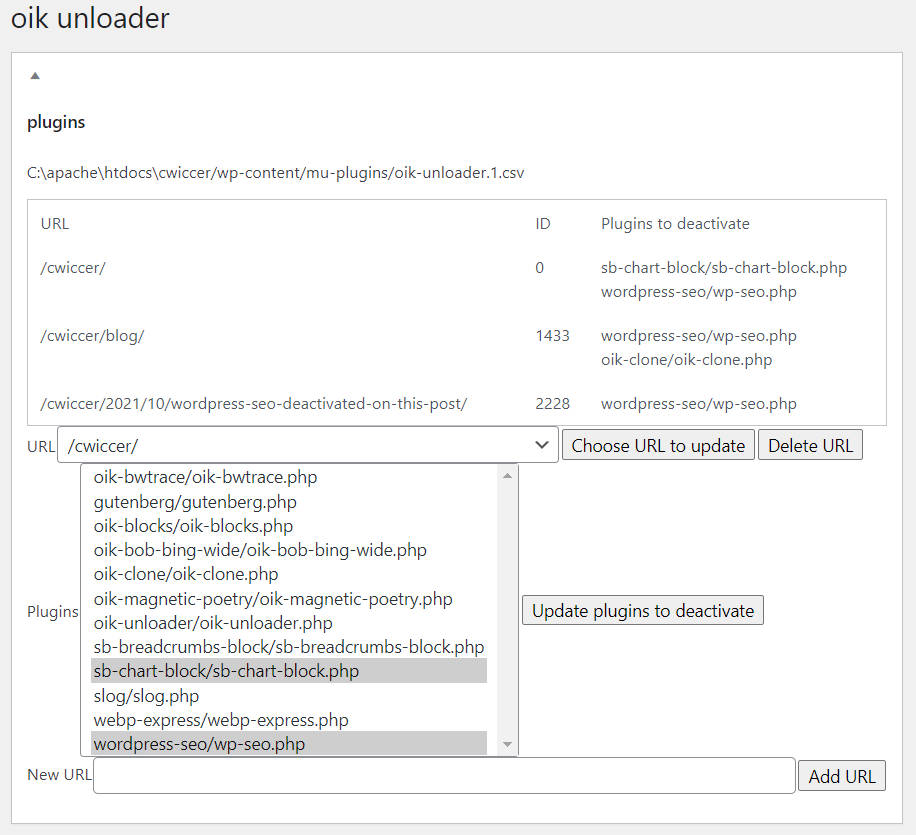
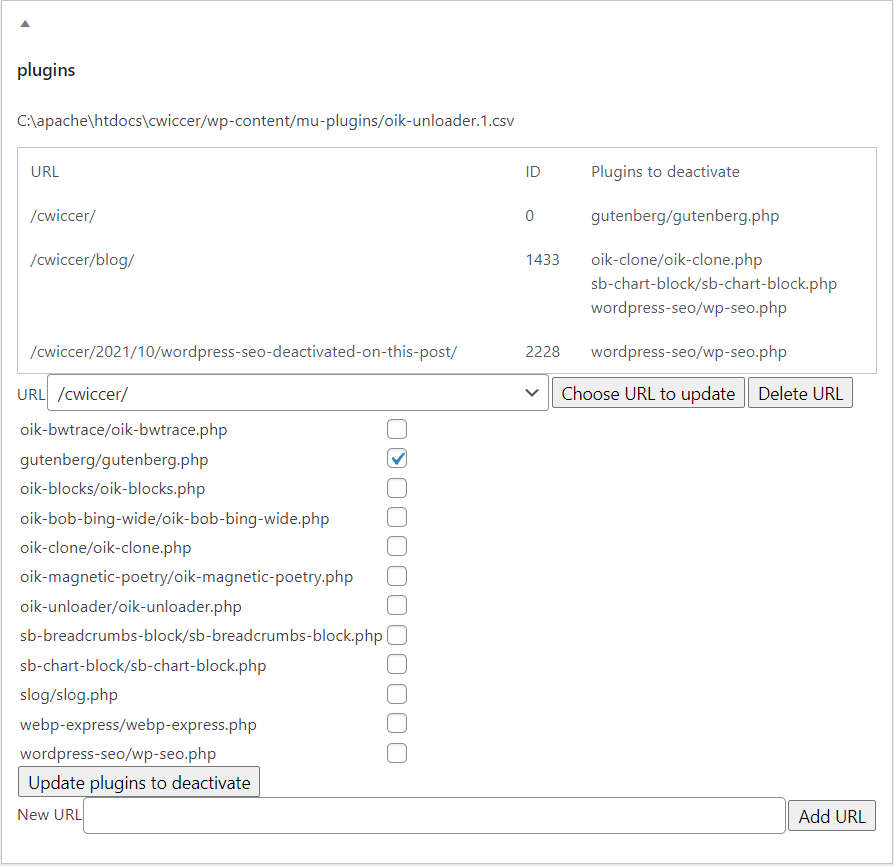
oik-unloader v0.0.1 2021/10/26

diff --git a/oik-unloader.php b/oik-unloader.php
@@ -3,7 +3,7 @@
 Plugin Name: oik-unloader
 Plugin URI: https://www.oik-plugins.com/oik-plugins/oik-unloader
 Description: WordPress plugin to dynamically unload unnecessary plugins on demand
-Version: 0.0.0
+Version: 0.0.1
 Author: bobbingwide
 Author URI: https://bobbingwide.com/about-bobbing-wide/
 Text Domain: oik-unloader

diff --git a/README.md b/README.md
@@ -5,7 +5,7 @@
 * Tags: oik, plugin, unloader
 * Requires at least: 5.8.1
 * Tested up to: 5.8.1
-* Stable tag: 0.0.0
+* Stable tag: 0.0.1
 
 WordPress Must Use plugin to unload unnecessary plugins on demand.
 
@@ -13,15 +13,17 @@ WordPress Must Use plugin to unload unnecessary plugins on demand.
 Use the oik-unloader plugin to unload unnecessary plugins on demand.
 
 Many websites have lots of plugins activated because the functionality is sometimes needed.
-But quite a few of these plugins think they're needed all the time,
-they do a lot of processing for each incoming request,
-only to find that there's no need for the work that they've done.
+But quite a few of these plugins:
+- think they're needed all the time,
+- do a lot of processing for each incoming request,
+- only to find that there was no need for the work that they'd done.
 
-These slow the server side processing of the site. This can increase time to first byte.
+These slow the server side processing of the site.
+This can increase the server response time; time to first byte.
 The plugins can also slow the front end of the site; delivering scripts, CSS and even HTML and images that are not actually needed.
 
 Dynamically unloading a subset of plugins for certain requests could improve the overall performance of the site.
-
+This could help improve the Core Web Vitals which may lead to better rankings in Search Engine Results Pages ( SERPs ).
 
 ## Installation 
 1. Upload the contents of the oik-unloader plugin to the `/wp-content/plugins/oik-unloader' directory
@@ -33,20 +35,40 @@ Dynamically unloading a subset of plugins for certain requests could improve the
 
 * Note: In a WordPress Multi Site installation
 - There will only be one version of the Must Use plugin ( oik-unloader-mu.php )
-- There will be multiple index and component dependencies files; one of each per site.
+- There will be multiple unloader files ; one per site.
 
 
 ## Frequently Asked Questions 
 
 # What is this plugin for? 
-It helps to reduce the number of activated plugins in your website.
-It dynamically removes from the plugins list the unwanted plugins.
+Performance tweaking.
+
+- It helps to reduce the number of activated plugins for a particular request.
+- It dynamically removes the unwanted plugins from the list of plugins to be activated.
+- The plugin temporarily deactivates plugins for the specific URL.
+- It doesn't unload them, it prevents the plugins from being loaded.
 
 # Which plugins can I deactivate? 
 
 For certain URLs you should be able to deactivate a whole host of plugins that aren't actually required for the front end.
 You may find that some plugins are extremely well behaved and it won't make the slightest difference if they're left activated.
 
+# Why deactivate rather than activate? 
+
+By targetting specific URLs you can deactivate plugins that you're certain are not needed.
+For example, you may have a number of posts that display charts.
+For these you will need to ensure that the chart plugin is activated.
+For any other post, the plugin that displays the charts doesn't need to be activated.
+If it improves the performance, then you may consider deactivating the chart plugin for these other posts.
+The tweaking is intended to get the best performance for specific URLs.
+Concentrate on the most visited pages first and deactivate only those plugins that you know you can safely deactivate.
+
+
+It's primarily the front end experience that we want to improve.
+
+When using the WordPress admin interface you'll expect each of the plugins to operate correctly.
+Therefore you would expect the plugins to be activated.
+The REST API and AJAX requests should also produce the expected results.
 
 ## Screenshots 
 1. oik-loader admin page - plugins
@@ -54,14 +76,22 @@ You may find that some plugins are extremely well behaved and it won't make the 
 3. oik-loader admin page - oik-loader-mu activated
 
 ## Upgrade Notice 
+# 0.0.1 
+Upgrade plugin selection using checkboxes.
+
 # 0.0.0 
 Prototype version developed as part of a performance improvement project.
 
 ## Changelog 
+# 0.0.1 
+* Changed: Plugin selection list implemented using checkboxes
+* Changed: Create mu-plugins folder if required
+* Changed: Respect WPMU_PLUIN_DIR value locating mu-plugins folder
+
 # 0.0.0 
 * Added: Brand new plugin. includes/oik-unloader-mu.php will only be installed in mu-plugins if the folder exists.
-* Tested: With WordPress 5.8.1 and WordPress Multi Site
-* Tested: With Gutenberg 11.7 and different variations
+* Tested: With WordPress 5.8.1
+* Tested: With Gutenberg 11.7
 * Tested: With PHP 8.0
 
 ## Further reading 
